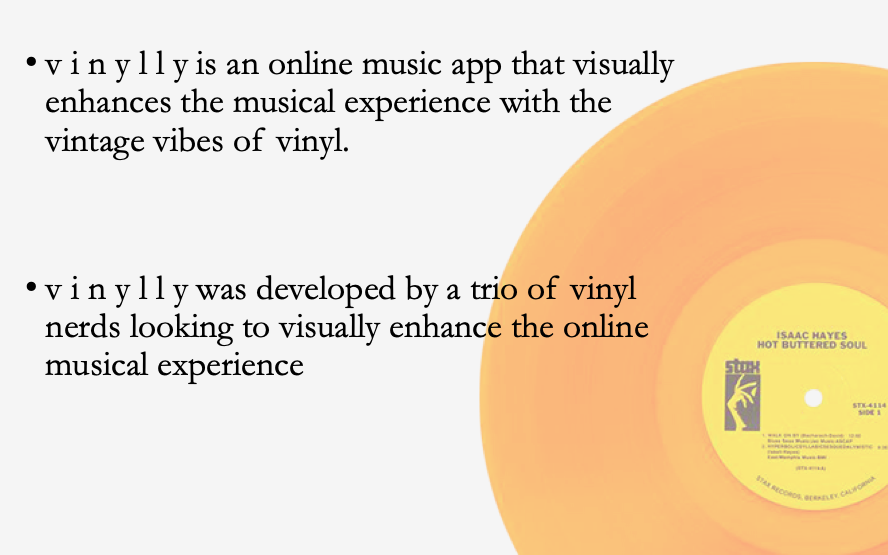
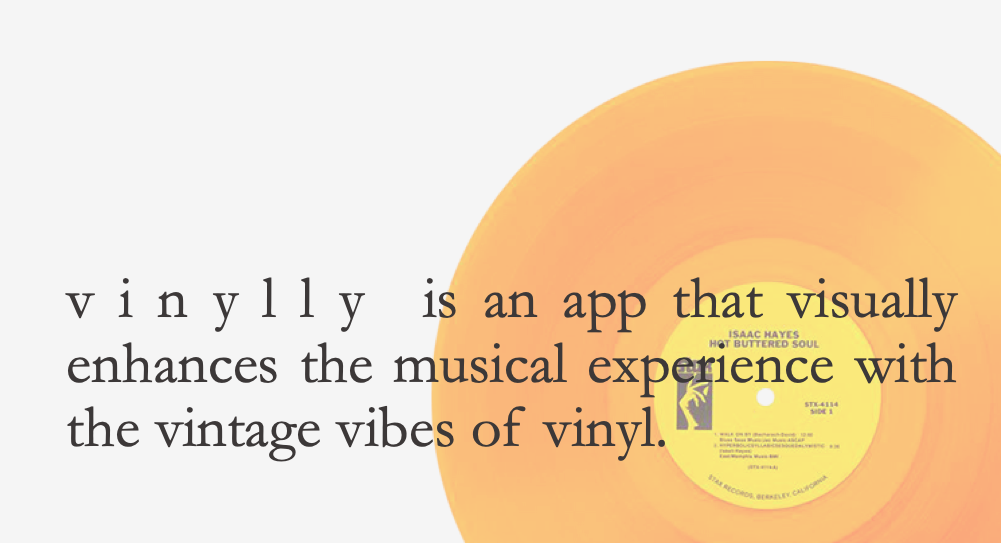
read me updates

Changed region(s): [[0.0304, 0.0884, 1.0, 1.0], [0.0304, 0.2357, 0.3953, 0.2947]]

diff --git a/README.md b/README.md
@@ -1,16 +1,42 @@
 ![vinylly_title](/assets/images/readMe/vinylly.png)
 
-##  v i n y l l y  is an interactive digtal record player that visually enhances the musical listening experience with the vintage vibes of vinyl.
+![vinylly_slide2](/assets/images/readMe/slide2.png)
 
 ##  Overview
 
-![vinylly_slide2](/assets/images/readMe/slide2.png)
+* v i n y l l y enables a user (age 18+, for now) to access a library of music organized by genre
 
-To listen music in vinylly, the user must verify their age (you must be 18+ to enter). Once validated, the user can enter their name (optional) and a genre of music. Currently, the library is limited to a few genres (as we have no incorporated the Spotify API yet). Current genres include: rock, psychedelic, rap, hip-hop, soul, jazz, country, and pop.
+* While listening to music, the user can read band biographies and browse events showcasing the band or artist currently playing
 
-![vinylly_slide3](/assets/images/readMe/slide3.png)
+* Life-like animations and graphics allow the user to tap into the nostalgic pleasures of vinyl (without having to deal with the perils of those fancy record player thingamajigs)
 
-CSS classes are dynamically manipulated to animate the record player and the album art (jQuery and CSS Hover libraries are used). Bands-in-Town and Last.FM APIs allow the user to view upcomming events and read more about the artist playing.
+* The record player is full-screen to make for an excellent backdrop to a party playlist
+
+## How It Works
+
+* Age verification is used to confirm a user is age 18+. If they are under age, they are politely denied access to the site
+
+![vinylly_nope](/assets/images/readMe/nope.png)
+
+* If they pass age validation, a user is then prompted for their name (which is optional) and a musical genre
+
+* Currently, the library is limited to a few genres (as we have no incorporated the Spotify API yet). Available genres include:
+    *  rock
+    *  psychedelic
+    *  rap
+    *  hip-hop
+    *  soul
+    *  jazz
+    *  country
+    *  pop
+    *  alternative
+
+* CSS classes are dynamically manipulated to animate the record player and the album art (jQuery and CSS Hover libraries are used). 
+
+*  Bands-in-Town and Last.FM APIs allow the user to view upcomming events and read more about the artist playing.
+
+*  The site is styled with CSS and Bootstrap. We used a reset.css file to fully customize our look!
+
 
 ##  On The Horizon
 
